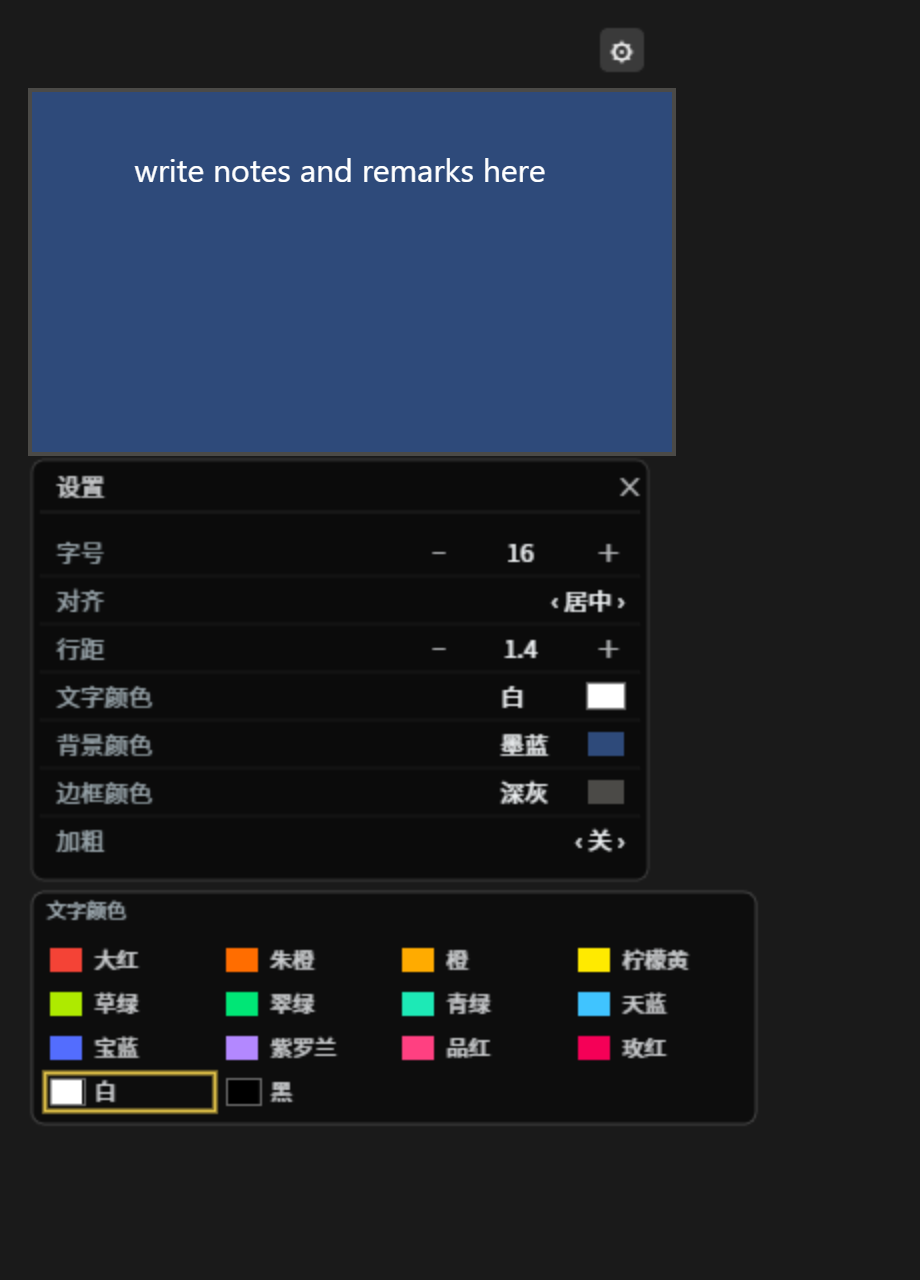
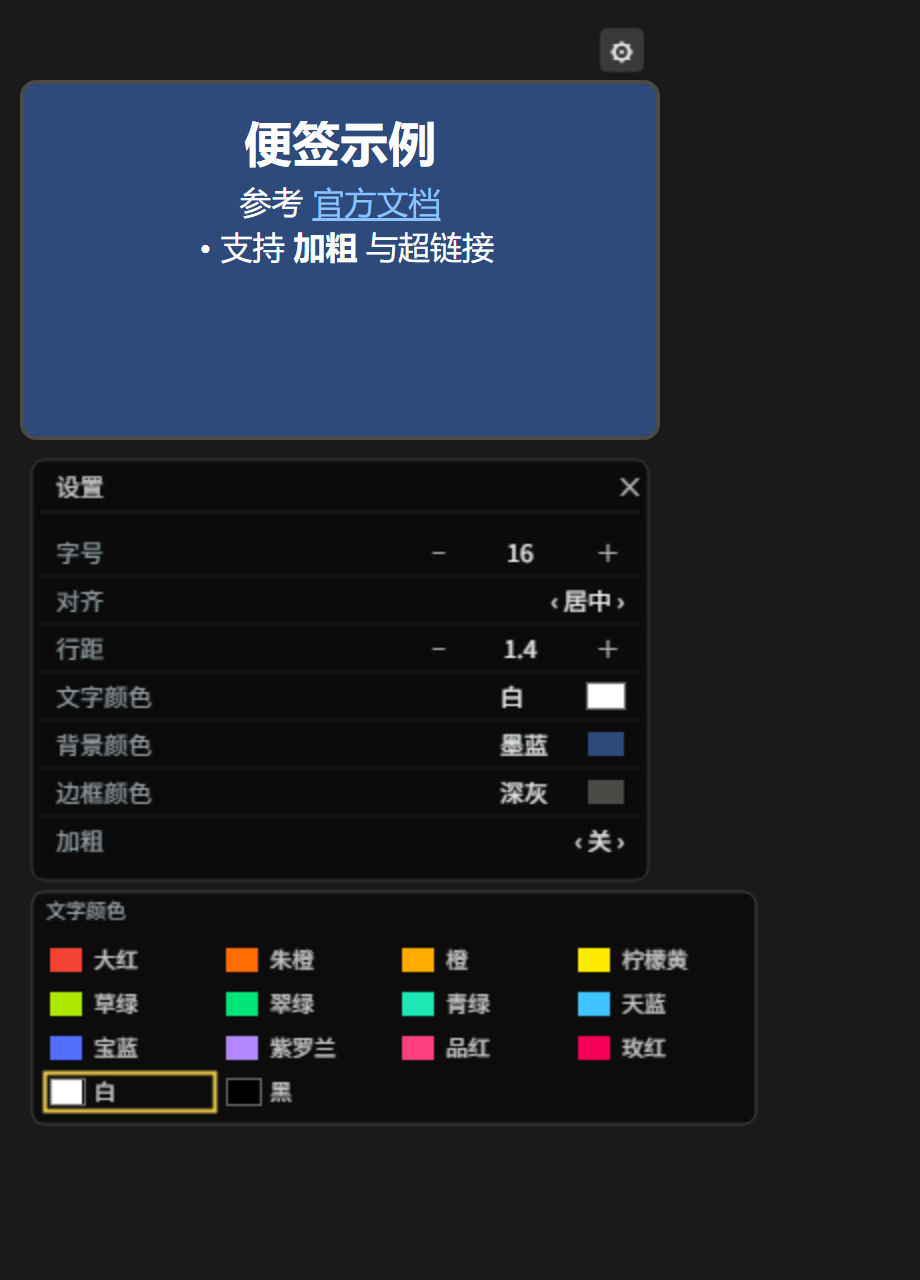
docs: refresh all demo screenshots for v4.2, document links & editing
Screenshots (the old ones still showed the v4.0 look: body text
"write notes and remarks here" and an always-visible textarea):

- regenerate the six existing demo images from the current code, zh + en,
  920x1280, same layout/geometry as before
- add a new pair showing a brand-new note: empty body with only the grey
  placeholder hint (assets/demo_04_empty_hint.png, demo_en_4_empty_hint.png)
- note content in the shots now demonstrates # heading, a clickable link and
  **bold** instead of the stale placeholder sentence

Docs:

- new section "Writing notes: clickable links & light Markdown" (en) /
  "写便签：超链接与轻量 Markdown" (zh): double-click to edit, [label](url)
  and bare URLs become links (underlined, new tab, http/https/mailto/ftp only),
  light Markdown (# headings, - lists, **bold**), everything else HTML-escaped
- mention that a new note's body is empty and that hint text saved as real
  content by older versions is cleaned up on load
- readme image tables updated (en table now 2x2, zh gets the hint shot)

Images are produced by the gitignored .shots harness: build.js inlines
web/textnote_canvas.js, mocks LiteGraph/ComfyWidgets, renders the node's own
onDrawTitle/onDrawBackground plus the v4.2 render layer, and headless Chrome
captures at 2x (--force-device-scale-factor=2, 460x640 viewport -> 920x1280).

diff --git a/readme.md b/readme.md
@@ -6,9 +6,12 @@
 
 ![version](https://img.shields.io/badge/version-4.2.0-blue) ![ComfyUI](https://img.shields.io/badge/ComfyUI-0.35%2B-green) ![license](https://img.shields.io/badge/license-MIT-orange)
 
-| Settings panel | Text color palette |
+|  |  |
 |---|---|
+| **Settings panel** | **Text color palette** |
 | ![settings panel](assets/demo_en_1_settings_panel.png) | ![text palette](assets/demo_en_2_text_palette.png) |
+| **Background color palette** | **A brand-new note** — empty body, the grey text is only a hint |
+| ![bg palette](assets/demo_en_3_bg_palette.png) | ![empty note with hint](assets/demo_en_4_empty_hint.png) |
 
 *UI language follows your browser (English shown above, Chinese below). / 界面语言跟随浏览器（上图为英文界面，中文界面见下文）。*
 
@@ -55,9 +58,17 @@ No dependencies beyond what ComfyUI already ships (nothing to pip-install).
 
 1. Restart ComfyUI (or just reload the browser page)
 2. Double-click empty canvas → search **`TextNote`** (category `utilities`, next to the built-in Note)
-3. Type your note; click the **⚙** in the top-right corner of the title bar to style it
+3. **Double-click the note body** and type; click the **⚙** in the top-right corner of the title bar to style it
 
 A new note starts **empty**: the grey hint (*"Write notes here…"*) is only a placeholder — double-click and type straight away, there is nothing to delete first. Workflows saved with the old version, where that hint was stored as real text, are cleaned up automatically on load.
+
+### Writing notes: clickable links & light Markdown
+
+The note body has two states: **edit** (double-click it → a text box appears, blur to leave) and **render** (everything else → links are clickable). Outside edit mode:
+
+- **Links** — `[label](https://example.com)` renders as a clickable link (underlined, opens in a **new tab**). Bare `https://…`, `http://…` and `www.…` addresses are turned into links automatically. Only `http`, `https`, `mailto` and `ftp` are allowed; `javascript:` / `data:` URLs are rejected.
+- **Light Markdown** — `# Heading` (levels 1–4), `- item` / `* item` bullet lists, and `**bold**`.
+- Everything else is shown as plain text, HTML-escaped, so a note can never inject markup into the page.
 
 ### Compatibility
 
@@ -84,6 +95,10 @@ Edit `web/textnote_canvas.js`:
 | 设置面板 | 文字颜色色卡 | 背景颜色色卡 |
 |---|---|---|
 | ![设置面板](assets/demo_01_settings_panel.png) | ![文字颜色](assets/demo_02_text_palette.png) | ![背景颜色](assets/demo_03_bg_palette.png) |
+
+**新建便签**：正文是空的，画布上的灰字只是占位提示，双击就能直接输入：
+
+![空便签的灰色占位提示](assets/demo_04_empty_hint.png)
 
 - **没有输入口、没有输出口、不参与执行**（虚拟节点），跑工作流零开销
 - 正文和全部样式**随工作流 JSON 一起保存**，分享 / 拷贝不丢
@@ -120,9 +135,17 @@ ComfyUI/custom_nodes/ComfyUI-TextNote/
 
 1. 重启 ComfyUI（或刷新浏览器页面）
 2. 双击画布空白处搜索 **`便签`** 或 **`TextNote`**（`utilities` 分类，官方 Note 旁边）
-3. 直接写字；点标题栏右上角 **⚙** 调样式
+3. **双击便签正文**直接写字；点标题栏右上角 **⚙** 调样式
 
 新建便签的正文是**空的**：画布上的灰色小字（"在这里写说明、备注…"）**只是占位提示**，双击就能直接输入，不用先把它删掉。旧版本把这段提示当成正文存进工作流的情况，加载时会自动识别并清空。
+
+### 写便签：超链接与轻量 Markdown
+
+正文有两种状态：**编辑态**（双击正文 → 出现输入框，点别处退出）和**渲染态**（其余时候 → 链接可点击）。非编辑态下支持：
+
+- **超链接** —— `[标题](https://example.com)` 会渲染成可点击的链接（带下划线，**新标签页**打开）；直接写 `https://…` / `http://…` / `www.…` 也会自动变成链接。只放行 `http`、`https`、`mailto`、`ftp`，`javascript:` / `data:` 一律拦截。
+- **轻量 Markdown** —— `# 标题`（1–4 级）、`- 条目` / `* 条目` 列表、`**加粗**`。
+- 其余内容按纯文本显示（HTML 转义），便签无法往页面里注入任何标记。
 
 ### 兼容性
 
